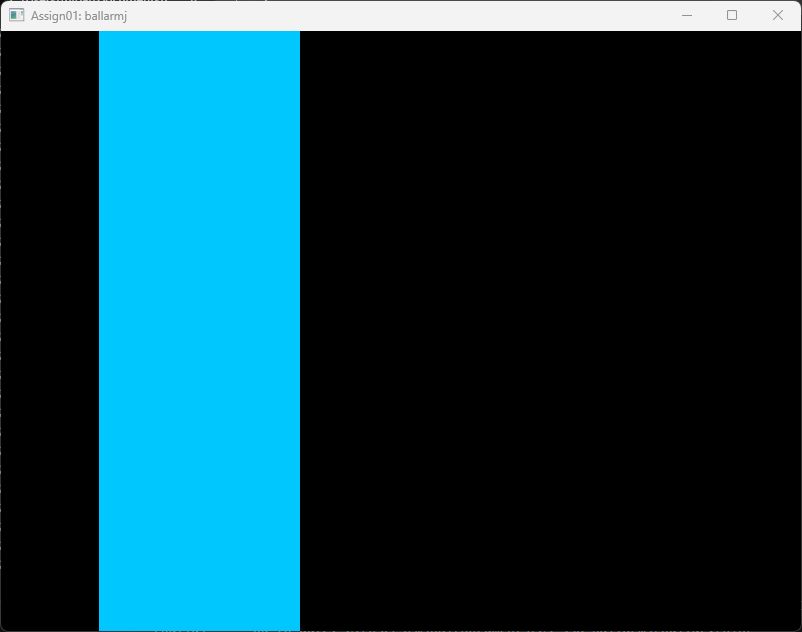
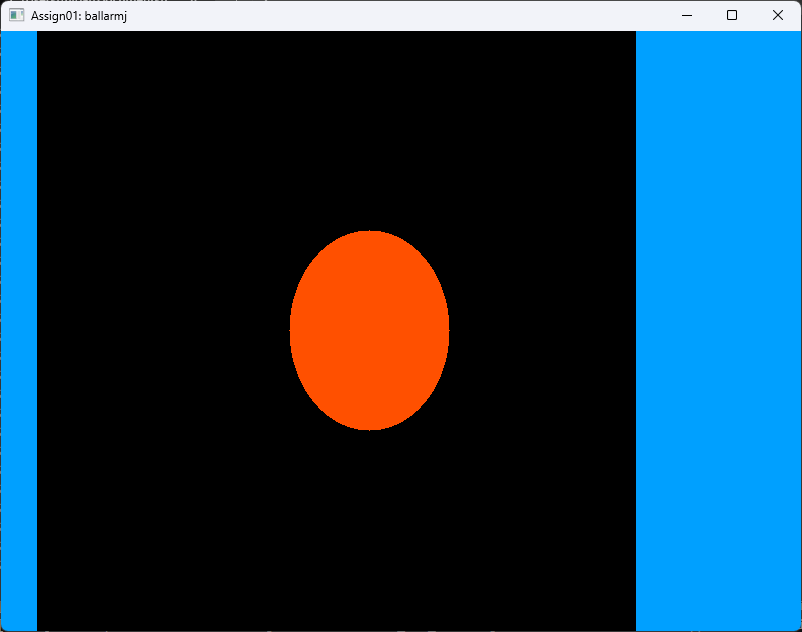
Box/elipse now flows onto the left side when going past the right

diff --git a/src/lib/A01RenderEngine.cpp b/src/lib/A01RenderEngine.cpp
@@ -91,15 +91,27 @@ void A01RenderEngine::drawOneFrame() {
 
     // Draw our items
     // EXAMPLE: Just draw a red column that moves every frame
-    int colWidth = 200;
-    int colInc = (currentCol * currentCol / windowWidth / 10) % windowWidth + 1;
-    drawAABox(drawBuffer, currentCol, 0, (currentCol+colWidth), windowHeight-1,
+    int rectWidth = 200;
+    int colInc = rectCol / 128 + 2;
+    drawAABox(drawBuffer, rectCol, 0, (rectCol+rectWidth), windowHeight-1,
                 0, 160, 255);
 
-	drawAnElipse(drawBuffer, (currentCol * 3) % windowWidth, (windowHeight / 2), 
-				windowWidth / 10, (windowHeight / 4 + currentCol % 50), 255, 80, 0);
+	if (rectCol + rectWidth > windowWidth)
+		drawAABox(drawBuffer, 0, 0, (rectCol+rectWidth) % windowWidth, windowHeight - 1, 0, 160, 255);
+
+	int rx = windowWidth / 10;
+	int ry = (windowHeight / 6 + elipCol % 72);
+	drawAnElipse(drawBuffer, elipCol + rx, (windowHeight / 2), 
+				rx, ry, 255, 80, 0);
+
+	if (elipCol + 2 * rx > windowWidth)
+		drawAnElipse(drawBuffer, elipCol + rx - windowWidth, windowHeight / 2, rx, ry, 255, 80, 0);
 	
-    currentCol = (currentCol+colInc)%windowWidth;
+    rectCol = (rectCol+colInc);
+	if (rectCol >= windowWidth) rectCol = 0;
+
+	elipCol += colInc * 3;
+	if (elipCol >= windowWidth) elipCol = 0;
 
     // Get elapsed time
     double elapsed = chrono::duration_cast<Second>(Clock::now() - startTime).count();

diff --git a/src/include/A01RenderEngine.hpp b/src/include/A01RenderEngine.hpp
@@ -23,7 +23,8 @@ class A01RenderEngine {
         int totalBufferSize = 0;
 
         // BONUS    
-        int currentCol = 0;
+        int rectCol = 0;
+		int elipCol = 0;
 
         // Internal drawing functions
         void clearBuffer(   unsigned char *buffer, 
